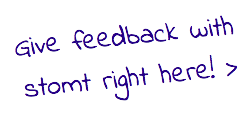
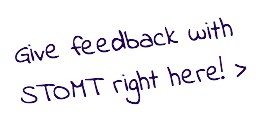
Applying STOMT rebranding
git-svn-id: https://plugins.svn.wordpress.org/stomt-instant-feedback-button/trunk@1613525 b8457f37-d9ea-0310-8a92-e5e31aec5664

diff --git a/library/class.stomt-admin.php b/library/class.stomt-admin.php
@@ -42,7 +42,7 @@ class Stomt_Admin {
 	
 	public static function admin_menu_hook() {
 		register_setting( 'stomt_options', 'stomt_options', array( 'Stomt_Admin', 'validate_settings' ) );
-		add_options_page(__( 'Stomt', 'stomt' ), __( 'Stomt', 'stomt' ), 'manage_options', 'stomt-admin', array( 'Stomt_Admin', 'display_setup_page' ));
+		add_options_page(__( 'STOMT', 'stomt' ), __( 'STOMT', 'stomt' ), 'manage_options', 'stomt-admin', array( 'Stomt_Admin', 'display_setup_page' ));
 	}
 	
 	public static function display_setup_page() {		
@@ -53,14 +53,14 @@ class Stomt_Admin {
 	private static function init_settings_fields() {
 		
 		add_settings_section( 'stomt-main',
-				__( 'Setup Stomt', 'stomt' ),
+				__( 'Setup STOMT', 'stomt' ),
 				array( 'Stomt_Admin', 'print_stomt_general_section' ),
 				'stomt-admin'
 			);
 		
 		add_settings_field(
 				'targetId',
-				__( 'Stomt Username', 'stomt' ),
+				__( 'STOMT Username', 'stomt' ),
 				array( 'Stomt_Admin', 'print_stomt_username_field' ),
 				'stomt-admin',
 				'stomt-main',

diff --git a/views/getting-started.php b/views/getting-started.php
@@ -5,8 +5,8 @@
 			<img src="<?php echo STOMT_PLUGIN_INCLUDES_URL . 'img/stomt-logo.png'; ?>"/>
 		</h2>
 	</a>
-	<p><?php esc_html_e( 'With stomt you add an instant feedback button to your wordpress site. Have your visitors speak a wish or praise your site. Submitted ideas can be managed on your wordpress site&#39;s stomt page.', 'stomt' ); ?>
-		<a href="https://www.stomt.com/createTarget"><?php esc_html_e( 'To connect your site to stomt, make sure to create a project page on stomt first.', 'stomt' ); ?></a>
+	<p><?php esc_html_e( 'With STOMT you add an instant feedback button to your wordpress site. Have your visitors speak a wish or praise your site. Submitted ideas can be managed on your wordpress site&#39;s STOMT page.', 'stomt' ); ?>
+		<a href="https://www.stomt.com/createTarget"><?php esc_html_e( 'To connect your site to STOMT, make sure to create a project page on STOMT first.', 'stomt' ); ?></a>
 	</p>
 
 </div>

diff --git a/views/form-field-username.php b/views/form-field-username.php
@@ -1,1 +1,1 @@
-<input id="<?php echo esc_html($label_for); ?>" name="stomt_options[<?php echo esc_html($label_for); ?>]" type="text" class="regular-text" placeholder="<?php esc_html_e( 'Name of your stomt page', 'stomt' ); ?>" value="<?php echo esc_html($options[$label_for]); ?>" />
+<input id="<?php echo esc_html($label_for); ?>" name="stomt_options[<?php echo esc_html($label_for); ?>]" type="text" class="regular-text" placeholder="<?php esc_html_e( 'Name of your STOMT page', 'stomt' ); ?>" value="<?php echo esc_html($options[$label_for]); ?>" />

diff --git a/stomt.php b/stomt.php
@@ -1,9 +1,9 @@
 <?php
 /*
-Plugin Name: Stomt Instant Feedback Button
+Plugin Name: STOMT Instant Feedback Button
 Plugin URI:  https://wordpress.org/plugins/stomt-instant-feedback-button/
-Description: Add stomt's instant feedback widget to your wordpress site.
-Version:     1.0
+Description: Add STOMT's instant feedback widget to your wordpress site.
+Version:     1.1
 Author:      Philipp Nolte
 Author URI:  https://profiles.wordpress.org/ptnplanet/
 Text Domain: wporg
